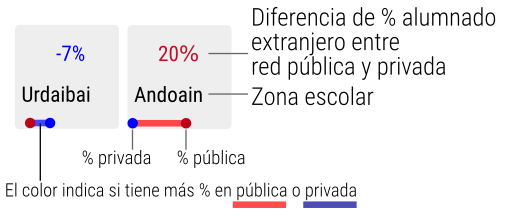
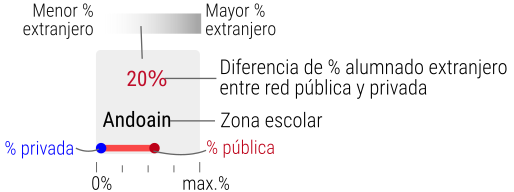
color de fondo en mapa flechas, depende de % extranjeros

diff --git a/mapa/flechas_extranjero.js b/mapa/flechas_extranjero.js
@@ -35,6 +35,9 @@ var colorPub = d3.scaleLinear()
 var colorPriv = d3.scaleLinear()
     .domain([1, 40])
     .range(['#fff','blue'])
+var colorTot= d3.scaleLinear()
+    .domain([1, 19])
+    .range(['#fff','#555'])
 
 // Adds cartogram svg
 var svg = d3.select("#cartogram").append("svg")
@@ -47,9 +50,9 @@ var svg = d3.select("#cartogram").append("svg")
 var background = svg.append('g').attr('id','backgroundimage');
 background.append("image")
 	.attr("xlink:href", "../images/leyenda-flechas-segregacion-extranjeros-red-pub-priv-euskadi.png")
-	.attr("x", width-400)
+	.attr("x", width-500)
 	.attr("y", -80)
-	.attr("width", "350")
+	.attr("width", "400")
 	.attr("height", "311");
 
 // Adds arrows
@@ -179,7 +182,7 @@ var path = d3.geoPath()
 		arrows.append("line")
 		  .each(function(d) {
 		  		var desigualdad = (d.properties.indice_desigualdad == null ) ? 0 : d.properties.indice_desigualdad;
-					var value = lineSize(Math.abs(d.properties.perc_alum_ext_priv));
+					var value = lineSize(d.properties.perc_alum_ext_priv);
 		  		if ( d.properties.zona == "Igorre" || d.properties.zona == "Montaña alavesa" || d.properties.zona == "Basurto-Zorroza" ) {
 		  			value = 0;
 		  		}
@@ -203,10 +206,9 @@ var path = d3.geoPath()
 		        .attr("stroke-opacity","0.7")
 		        .attr("stroke", function(d) {
 		          var desigualdad = (d.properties.indice_desigualdad == null ) ? "--" : d.properties.indice_desigualdad;
-							color = "#000";
 							if  ( desigualdad == "--" ) {
 								desigualdad = "--";
-								color = "#FFF";
+								color = "#CCC";
 							} else if ( desigualdad > 1 ) {
 								desigualdad = d.properties.indice_desigualdad;
 								color = "#F00";
@@ -228,14 +230,14 @@ var path = d3.geoPath()
               .attr("y", -square / 2)
               //.attr("x", -d.area / 2)
               //.attr("y", -d.area / 2)
-              /*.attr("fill", function(d) {
+              .attr("fill", function(d) {
 		            if  ( d.properties.indice_desigualdad == null)  {
 									return "#CCC";
 								} else {
-									return colorPub(d.properties.perc_alum_ext_publi)
+									return colorTot(d.properties.perc_alum_ext_todos)
 								}
-							})*/
-							.attr("fill", "#eee")
+							})
+							//.attr("fill", "#eee")
               .attr("stroke", "#fff")
               .attr("stroke-width", 1)
               .attr("rx", 0.5)
@@ -282,7 +284,7 @@ var path = d3.geoPath()
         d3.select(this)
           .attr("text-anchor", "middle")
 		      .attr("dy", -13)
-		      .attr("dx", square/2)
+		      .attr("dx", square/2-4)
 		      .text(
 		      function(d) {
 				      if ( d.properties.zona == "Igorre" || d.properties.zona == "Montaña alavesa" || d.properties.zona == "Basurto-Zorroza" ) {
@@ -297,7 +299,7 @@ var path = d3.geoPath()
 						return colora;
 						}
 		      )
-		      .style("font-size", "13px")
+		      .style("font-size", "14px")
 		      })
 		// % de red pública
 /*    arrows.append("text")
@@ -337,27 +339,29 @@ var path = d3.geoPath()
 						diferencia = d3.format(",.1f")(d.properties.perc_alum_ext_publi - d.properties.perc_alum_ext_priv);
 						diferencia_explica = "% pública - % privada";
 						cociente = "% pública / % privada";
+						color = "rgb(189,0,23,0.4)";
 					} else {
 						desigualdad = d3.format(",.2f")(d.properties.perc_alum_ext_priv / d.properties.perc_alum_ext_publi )
 						diferencia = d3.format(",.1f")(d.properties.perc_alum_ext_priv - d.properties.perc_alum_ext_publi)
 						diferencia_explica = "% privada - % pública";
 						cociente = "% privada / % pública";
+						color = "rgb(0,0,255,0.4)";
 					}
         
           var privado = (d.properties.perc_alum_ext_priv == null ) ? "-- " : d.properties.perc_alum_ext_priv;
 
-          tooltip.html("<div class='table-responsive'><strong>" + d.properties.zona + "</strong> (zona escolar " + d.properties.zona_id2 + ")</div>" +
-            "<table class='table table-condensed table-striped'>" +
+          tooltip.html("<div class='table-responsive'><strong>" + d.properties.zona + "</strong> (zona escolar " + d.properties.zona_id2 + ", " + d.properties.provincia + ")</div>" +
+            "<table class='table table-condensed'>" +
                 "<tr>" +
-                    "<td style='text-align:right'><strong>"+ d.properties.perc_alum_ext_publi  +"%</strong></td><td>alumnado es extranjero en la red <strong>pública</strong></td>" +
+                    "<td style='text-align:right;color:#bd0017'><strong>"+ d.properties.perc_alum_ext_publi  +"%</strong></td><td>alumnado es extranjero en la red <strong>pública</strong></td>" +
                 "</tr>" +
                  "<tr>" +
-                    "<td style='text-align:right'><strong>"+ privado +"%</strong></td><td>alumnado es extranjero en la red <strong>privado-concertada</strong></td>" +
+                    "<td style='text-align:right;color:#00F'><strong>"+ privado +"%</strong></td><td>alumnado es extranjero en la red <strong>privado-concertada</strong></td>" +
                 "</tr>" +
 								"<tr>" +
                     "<td style='text-align:right'>"+ d.properties.perc_alum_ext_todos +"%</td><td>alumnado es extranjero de media</td>" +
                 "</tr>" +
-								"<tr>" +
+								"<tr style='background-color:" + color + "'>" +
                     "<td style='text-align:right'><strong>"+ diferencia +"</strong></td><td>diferencia % ("+ diferencia_explica + ")</td>" +
                 "</tr>" +
                 "<tr>" +

diff --git a/mapa/extranjero.html b/mapa/extranjero.html
@@ -121,11 +121,11 @@ line:hover {
 	<section class="vis-item" id="interactivo">
 		<header class="row vis-head">
 			<div class="col-md-9">
-				<h1>Presencia de alumnado extranjero en redes pública y pivado-concertada en zonas escolares de Euskadi</h1>
+				<h1>Presencia de alumnado extranjero en redes pública y privado-concertada en zonas escolares de Euskadi</h1>
 			</div>
 		</header>
 		<div class="row vis-body">
-			<div class="col-md-12">
+			<div class="col-md-6">
 				<p>Se considera extranjera a una persona nacida fuera de España.</p>
 				<p class="bg-warning"><span class="glyphicon glyphicon glyphicon-hand-up" aria-hidden="true"></span> Pasa el cursor para descubrir más información sobre cada zona.</p>
 			</div>
